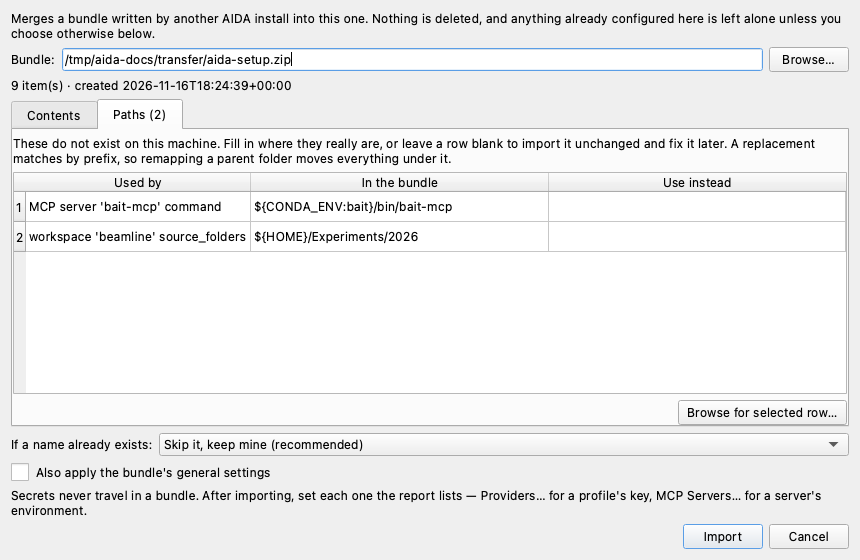
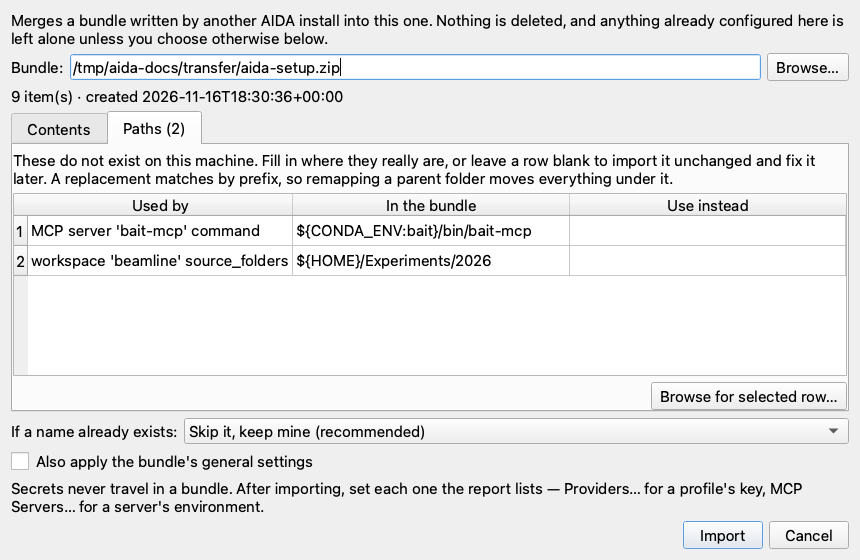
docs: dialog screenshots apply AIDA's font size, so shots do not depend on run order

Changed region(s): [[0.0, 0.0304, 0.9977, 0.4857], [0.0, 0.6679, 0.9977, 0.9714]]

diff --git a/scripts/doc_shots/moving_and_sharing.py b/scripts/doc_shots/moving_and_sharing.py
@@ -52,6 +52,14 @@ def _bundle() -> Path:
     return bundle
 
 
+def _app_font(ctx: Context) -> None:
+    """AIDA's configured font size, as aida-gui applies it at startup."""
+    from aida.config.settings import AppConfig
+    from aida.ui.qt.window_state import apply_font_size
+
+    apply_font_size(ctx.app, AppConfig())
+
+
 def _second_machine(ctx: Context) -> None:
     os.environ["HOME"] = shown_folder("second-machine-home")
     os.environ["AIDA_HOME"] = str(ctx.scratch / "second-machine-aida")
@@ -60,7 +68,10 @@ def _second_machine(ctx: Context) -> None:
 @shot("moving-and-sharing-01-export")
 def export(ctx: Context):
     reset_docs_tmp()
-    standard_settings()
+    settings = standard_settings()
+    from aida.ui.qt.window_state import apply_font_size
+
+    apply_font_size(ctx.app, settings.app)
     from aida.ui.qt.portability_dialog import ExportSetupDialog
 
     dialog = ExportSetupDialog(default_dir=Path(shown_folder("transfer")))
@@ -72,6 +83,7 @@ def export(ctx: Context):
 def import_contents(ctx: Context):
     bundle = _bundle()
     _second_machine(ctx)
+    _app_font(ctx)
     from aida.ui.qt.portability_dialog import _KEY_ROLE, ImportSetupDialog
 
     dialog = ImportSetupDialog(source=bundle)
@@ -98,6 +110,7 @@ def import_contents(ctx: Context):
 def import_paths(ctx: Context):
     bundle = _bundle()
     _second_machine(ctx)
+    _app_font(ctx)
     from aida.ui.qt.portability_dialog import ImportSetupDialog
 
     dialog = ImportSetupDialog(source=bundle)

diff --git a/scripts/doc_shots/coding_and_scripting.py b/scripts/doc_shots/coding_and_scripting.py
@@ -100,6 +100,9 @@ def code_editor(ctx: Context):
 def scripting_group(ctx: Context):
     reset_docs_tmp()
     settings = standard_settings()
+    from aida.ui.qt.window_state import apply_font_size
+
+    apply_font_size(ctx.app, settings.app)
     from aida.config.paths import skills_dir
     from aida.ui.qt._qt import QGroupBox
     from aida.ui.qt.workspace_management_dialog import WorkspaceFormDialog

diff --git a/scripts/doc_shots/documents.py b/scripts/doc_shots/documents.py
@@ -46,6 +46,9 @@ def attached(ctx: Context):
 def settings_ocr(ctx: Context):
     reset_docs_tmp()
     settings = standard_settings()
+    from aida.ui.qt.window_state import apply_font_size
+
+    apply_font_size(ctx.app, settings.app)
     from aida.ui.qt.settings_dialog import SettingsDialog
 
     dialog = SettingsDialog(settings.app, settings.providers.profiles)
